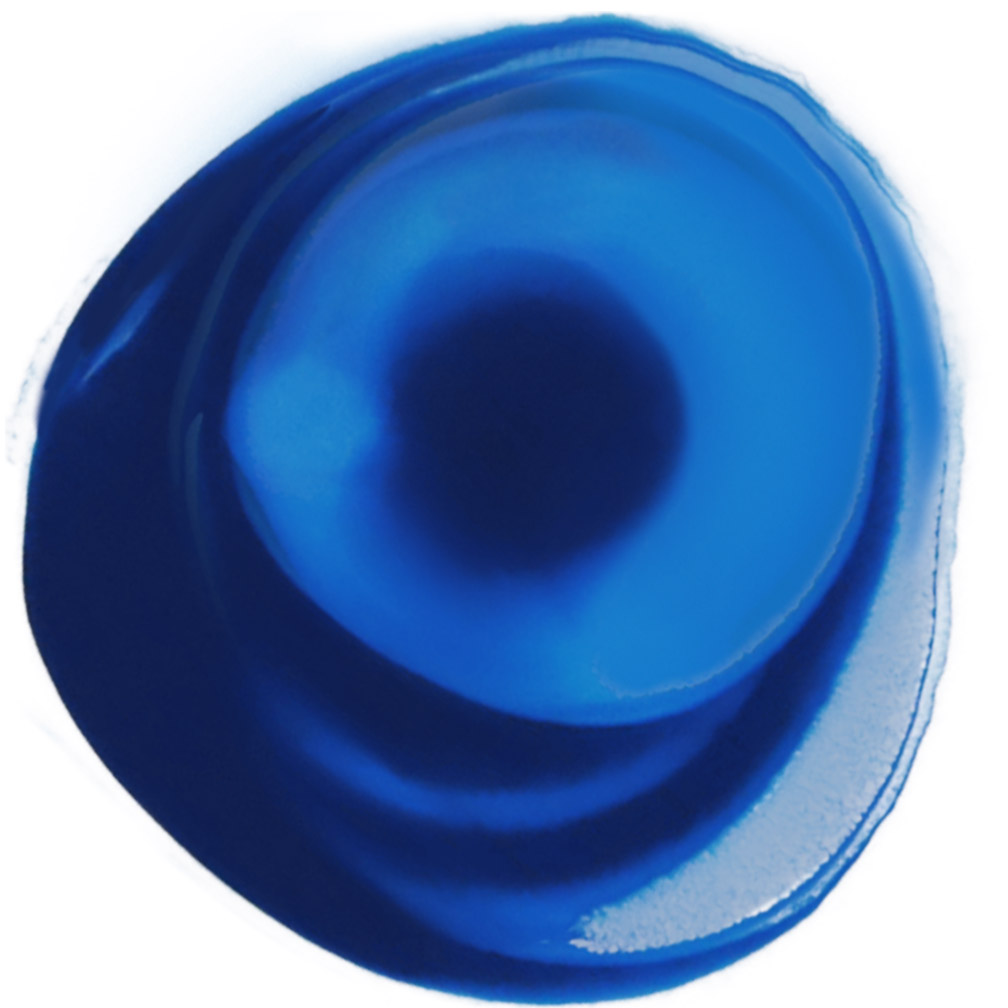
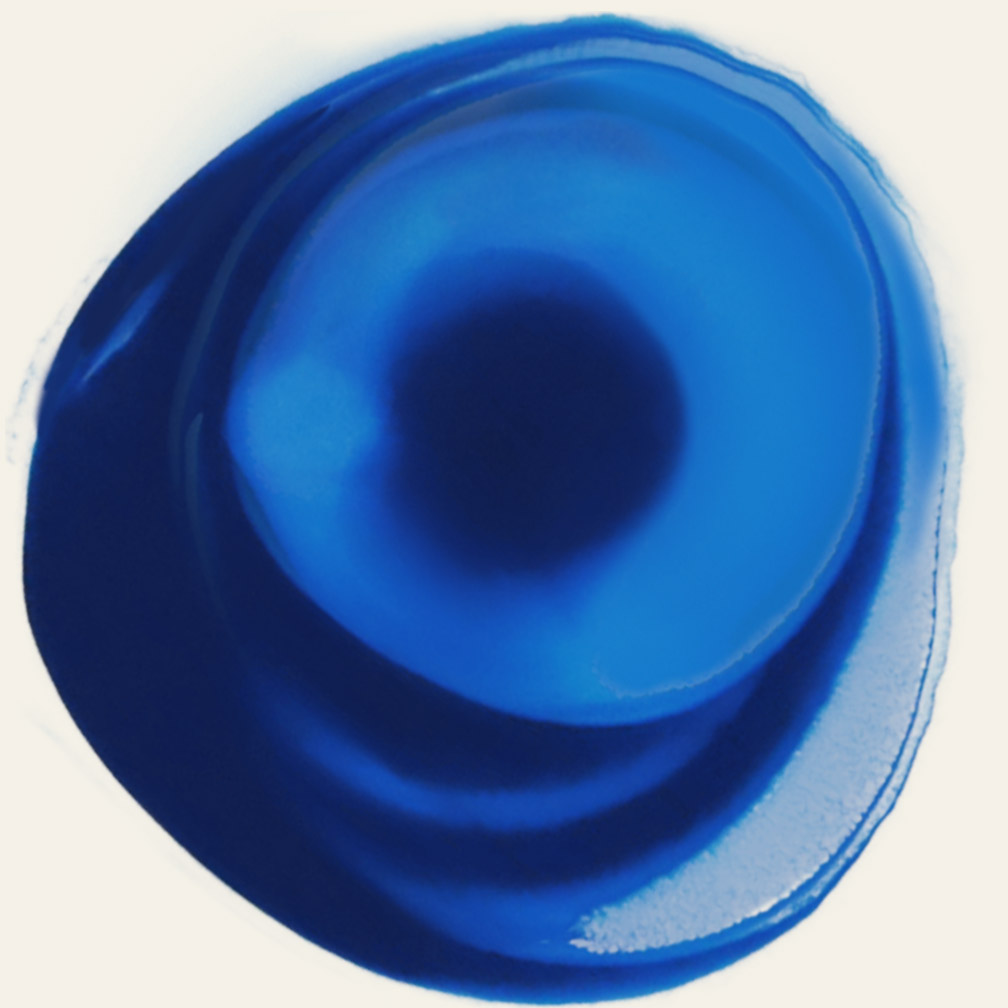
[!]

diff --git a/demo/ceo/js/js.js b/demo/ceo/js/js.js
@@ -26,6 +26,7 @@ $(document).ready(function(){
 	var param_vector=0;
 	
 	var num=1;
+	var animation_time=10;
 	
 	//波纹pixi
 	//var flag_stopAnimation=0;
@@ -46,7 +47,7 @@ $(document).ready(function(){
 
 
     // create an new instance of a pixi stage
-    stage = new PIXI.Stage(0xffffff, true);
+    stage = new PIXI.Stage(0xf4f1e7, true);
     
     pondContainer = new PIXI.DisplayObjectContainer();
     stage.addChild(pondContainer);
@@ -57,7 +58,6 @@ $(document).ready(function(){
     bg = PIXI.Sprite.fromImage("images/displacement_BG.jpg");
     pondContainer.addChild(bg);
 	bg.alpha=0;
-	
 	
     var img_list=["images/drop_1.jpg","images/drop_2.jpg","images/drop_3.jpg","images/drop_4.jpg"];
 	var drop_list=[];
@@ -85,17 +85,6 @@ $(document).ready(function(){
 	
 	var timer_scale=setInterval(function(){
 		scale_counter++;
-		/*if(scale_counter==50){
-			drop_list[number].alpha=0;
-			drop_list[number].alpha=1;
-			
-			drop_list[number].scale.x=drop_list[number].scale.x;
-			drop_list[number].scale.y=drop_list[number].scale.x;
-			drop_list[number].alpha=drop_list[number].scale.x;
-			
-			drop_list[number]=drop_list[number];
-			
-		}*/
 		
 		if(scale_counter>=40){
 			drop_list[0].alpha-=0.03;
@@ -135,14 +124,8 @@ $(document).ready(function(){
 			if(drop_list[number].scale.x/*<1&&drop.scale.x>0*/){
 				drop_list[number].scale.x+=0.009*(1-scale_counter/600);
 				drop_list[number].scale.y+=0.009*(1-scale_counter/600);
-				//drop_list[number].alpha=1-scale_counter/3200;
 				drop_list[number].rotation+=0.0014;
 			}
-			/*else{
-				drop_list[number].scale.x=1;
-				drop_list[number].scale.y=1;
-				drop_list[number].alpha=0;
-			}*/
 		}
 		
 		if(scale_counter>=210){
@@ -167,8 +150,14 @@ $(document).ready(function(){
 
 			if(drop_list[3].alpha<=0){
 				clearInterval(cover_timer);
+				clearInterval(timer_scale);
 				drop_list[3].alpha=0;
-				//bg.alpha=1;
+				
+				pondContainer.removeChild(drop_list[0]);
+				pondContainer.removeChild(drop_list[1]);
+				pondContainer.removeChild(drop_list[2]);
+				pondContainer.removeChild(drop_list[3]);
+				
 			}
 		},15);
 	}
@@ -209,7 +198,7 @@ $(document).ready(function(){
 		
 		if(animation_stop==0){
 		
-			var param_count=1000*10/time_duration;
+			var param_count=1000*animation_time/time_duration;
 			
 			render_timer=setTimeout(function(){
 				
@@ -269,6 +258,11 @@ $(document).ready(function(){
 	$(o_canvas).addClass("canvas");
 	$(o_canvas).attr("id","o_canvas");
 	
+	var timer_cover_first=setTimeout(function(){
+		$(".con_wrap_1").addClass("wrap_show");
+		clearTimeout(timer_cover_first);
+	},4900);
+	
 	
 	//触摸触发事件
 	$("body").touchwipe({
@@ -299,11 +293,38 @@ $(document).ready(function(){
 	
 	function wipe_up(){
 		
+		activeWave();
+		
+		//滑屏
+		$(".con_wrap_2").addClass("wrap_prepare");
+		
+		var timer=setTimeout(function(){
+			$(".con_wrap_1").addClass("wrap_show");
+			$(".con_wrap_1").removeClass("wrap_hide");
+			$(".con_wrap_2").removeClass("wrap_show");
+		},300);
+		
 	}
 	
 	function wipe_down(){
-		//console.log(param_range);
 		
+		activeWave();
+		
+		//滑屏
+		$(".con_wrap_1").addClass("wrap_hide");
+		
+		var timer=setTimeout(function(){
+			$(".con_wrap_2").addClass("wrap_show");
+			$(".con_wrap_2").removeClass("wrap_prepare");
+			$(".con_wrap_1").removeClass("wrap_show");
+		},300);
+		
+		
+		
+	}
+	
+	function activeWave(){
+		//触发波纹
 		if(animation_stop==1){
 			animation_stop=0;
 			
@@ -312,7 +333,6 @@ $(document).ready(function(){
 			time_count=-250;
 			animate();
 		}
-		//$(".num").html(num++);
 	}
 	
 });

diff --git a/demo/ceo/css/style.css b/demo/ceo/css/style.css
@@ -17,29 +17,42 @@ textarea{resize:none;}
 button {cursor:pointer;}
 
 html,body{ height:100%; width:100%; overflow:hidden; position: relative;}
-.con_wrap{ display:block; height:100%; width:100%; position:absolute; left:0px; top:0px; z-index:10;}
+.con_wrap{ display:block; height:100%; width:100%; position:absolute; left:0px; top:0px; z-index:10; -webkit-transition:-webkit-transform 0.3s linear,opacity 0.3s linear;}
 .con_wrap .main_title{ display:block; height:25px; width:209px; background:url(../images/main_title.png) no-repeat 0 0; background-size:contain; position:absolute; left:50%; top:218px; margin-left:-139px; text-indent:-9999px; overflow:hidden; opacity:0;}
 .con_wrap .sub_title{ display:block; height:38px; width:119px; background:url(../images/sub_title.png) no-repeat 0 0; background-size:contain; position:absolute; left:50%; bottom:148px; margin-left:-139px; text-indent:-9999px; overflow:hidden; opacity:0;}
 
-.page_arrow{ display:block; height:19px; width:25px; background:url(../images/page_arrow.png) no-repeat 0 0; position:absolute; left:50%; margin-left:-12px; bottom:20px; z-index:10; background-size:contain; text-indent:-9999px; overflow:hidden; opacity:0;}
+.arrow_hook{display:block; height:19px; width:25px; position:absolute; left:50%; margin-left:-12px; bottom:20px; z-index:10; opacity:0;}
+.page_arrow{ display:block; height:19px; width:25px; background:url(../images/page_arrow.png) no-repeat 0 0; position:absolute; left:0; top:0; background-size:contain; text-indent:-9999px; overflow:hidden;}
 
-.wrap_show .main_title{ -webkit-animation:a_main_title 0.3s 5.2s linear both;}
-.wrap_show .sub_title{ -webkit-animation:a_main_title 0.3s 5.5s linear both;}
-.wrap_show .page_arrow{ -webkit-animation:a_main_title 0.3s 5.8s linear both;}
+.wrap_show .main_title{ -webkit-animation:a_main_title 0.3s 0.3s linear both;}
+.wrap_show .sub_title{ -webkit-animation:a_main_title 0.3s 0.6s linear both;}
+.wrap_show .arrow_hook{ -webkit-animation:a_main_title 0.3s 0.9s linear both;}
+.wrap_show .page_arrow{ -webkit-animation:a_page_arrow 1s 0.9s linear infinite;}
 
 @-webkit-keyframes a_main_title{
 	0%{opacity:0;}
 	100%{opacity:1;}
 }
 
+@-webkit-keyframes a_page_arrow{
+	0%{ -webkit-transform:translate(0,0);}
+	20%{ -webkit-transform:translate(0,1px);}
+	40%{ -webkit-transform:translate(0,-3px);}
+	60%{ -webkit-transform:translate(0,0);}
+	80%{ -webkit-transform:translate(0,-1px);}
+	100%{ -webkit-transform:translate(0,0);}
+}
+
 
 .con_wrap .page_title{ display:block; color:#f4f1e7; font-size:18px; font-weight:bold; font-family:'Arial','microsoft yahei'; position:absolute; left:50px; top:50px;}
-.con_wrap .foreword{ display:block; color:#f4f1e7; font-size:16px; font-weight:normal; font-family:'Arial','microsoft yahei'; position:absolute; left:50px; top:50%; margin-top:-105px; line-height:1.7;}
+.con_wrap .foreword{ display:block; color:#f4f1e7; font-size:16px; font-weight:normal; font-family:'Arial','microsoft yahei'; position:absolute; left:50px; top:120px; line-height:1.7;}
 
+.wrap_show .page_title{ -webkit-animation:a_main_title 0.3s 0.3s linear both;}
+.wrap_show .foreword{ -webkit-animation:a_main_title 0.3s 0.6s linear both;}
 
-.wrap_show{ display:block;}
-.wrap_prepare{ display:none;}
-
+.wrap_prepare{ -webkit-transform:scale(0.8) translate(0,0); opacity:0;}
+.wrap_show{ -webkit-transform:scale(1) translate(0,0); opacity:1;}
+.wrap_hide{ -webkit-transform:scale(1) translate(0,-100%); opacity:0;}
 
 
 

diff --git a/demo/ceo/index.html b/demo/ceo/index.html
@@ -13,15 +13,19 @@
 <!--<div class="num">0</div>-->
 
 <div class="wrap">
-	<div class="con_wrap con_wrap_1 wrap_show">
+	<div class="con_wrap con_wrap_1">
     	<h1 class="main_title">互联网CEO分享会</h1>
         <h2 class="sub_title">INTERNET CEO ROUNDTABLE</h2>
-    	<a href="##" class="page_arrow">向上滑动</a>
+		<div class="arrow_hook">
+    		<a href="##" class="page_arrow">向上滑动</a>
+        </div>
     </div>
     <div class="con_wrap con_wrap_2 wrap_prepare">
     	<h3 class="page_title">引言</h3>
         <p class="foreword">在瞬息万变的互联网大潮中<br/>连接是唯一确定的方向<br/>在充满不确定的思想激荡中<br/>相互学习让我们汲取到彼此的能量<br/>加入互联网CEO分享会<br/>连接的翅膀助你展翅翱翔</p>
-        <a href="##" class="page_arrow">向上滑动</a>
+       	<div class="arrow_hook">
+    		<a href="##" class="page_arrow">向上滑动</a>
+        </div>
     </div>
 </div>
 
